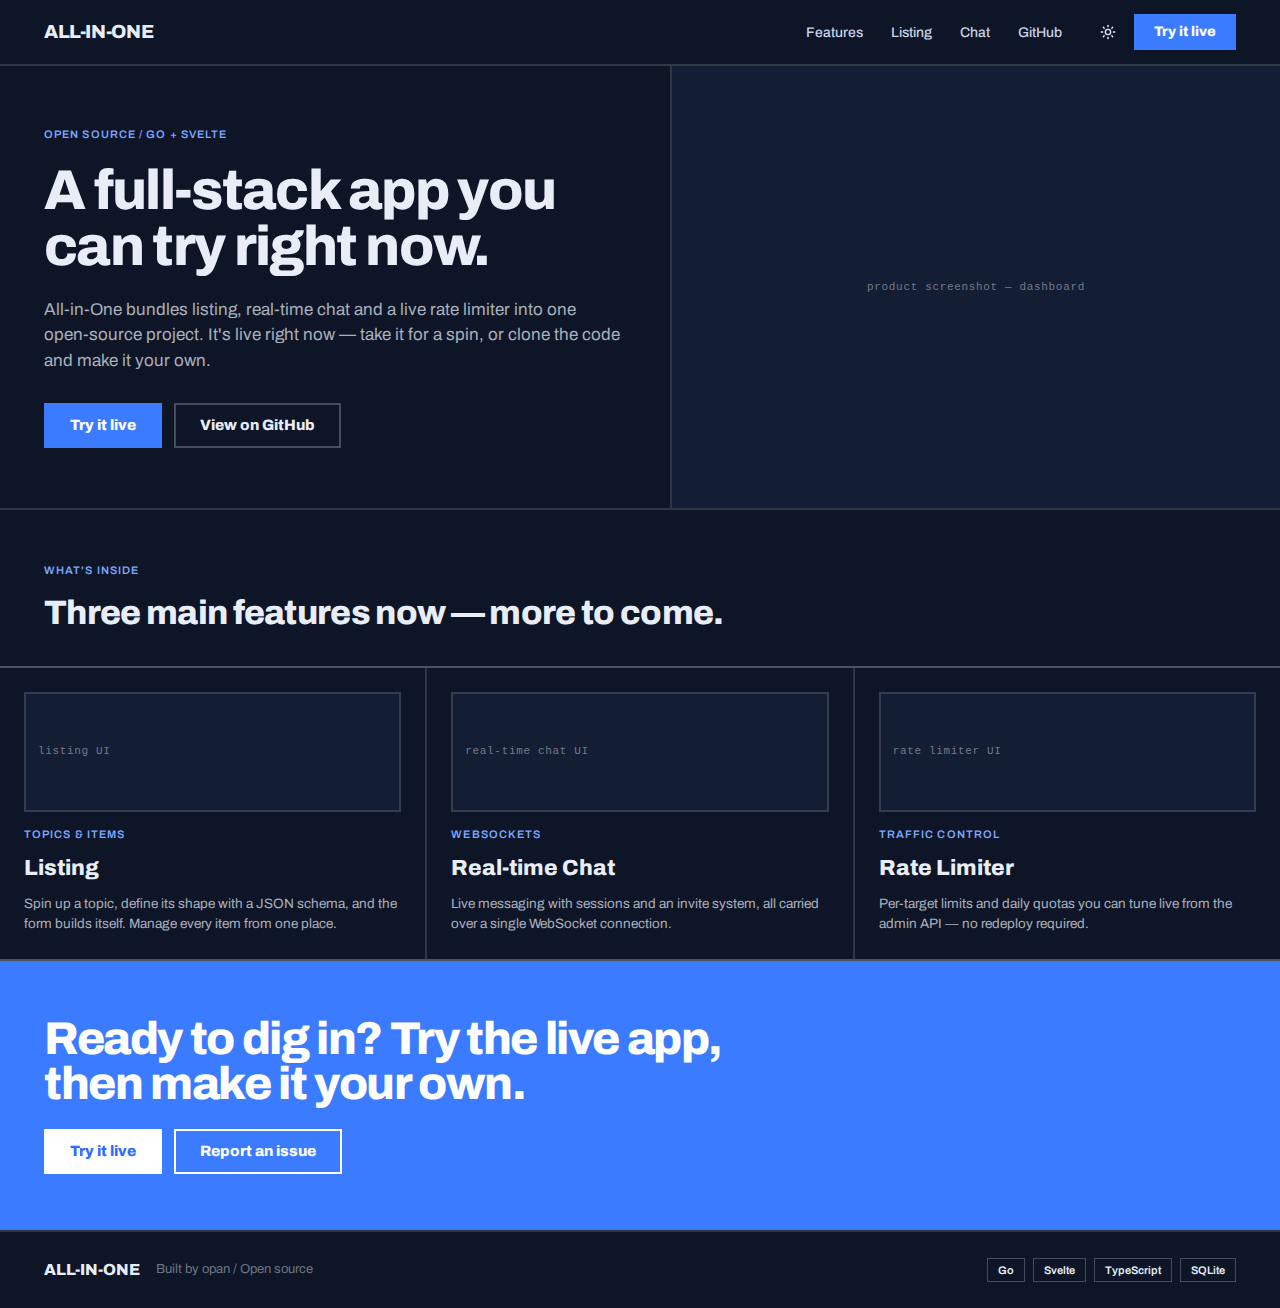
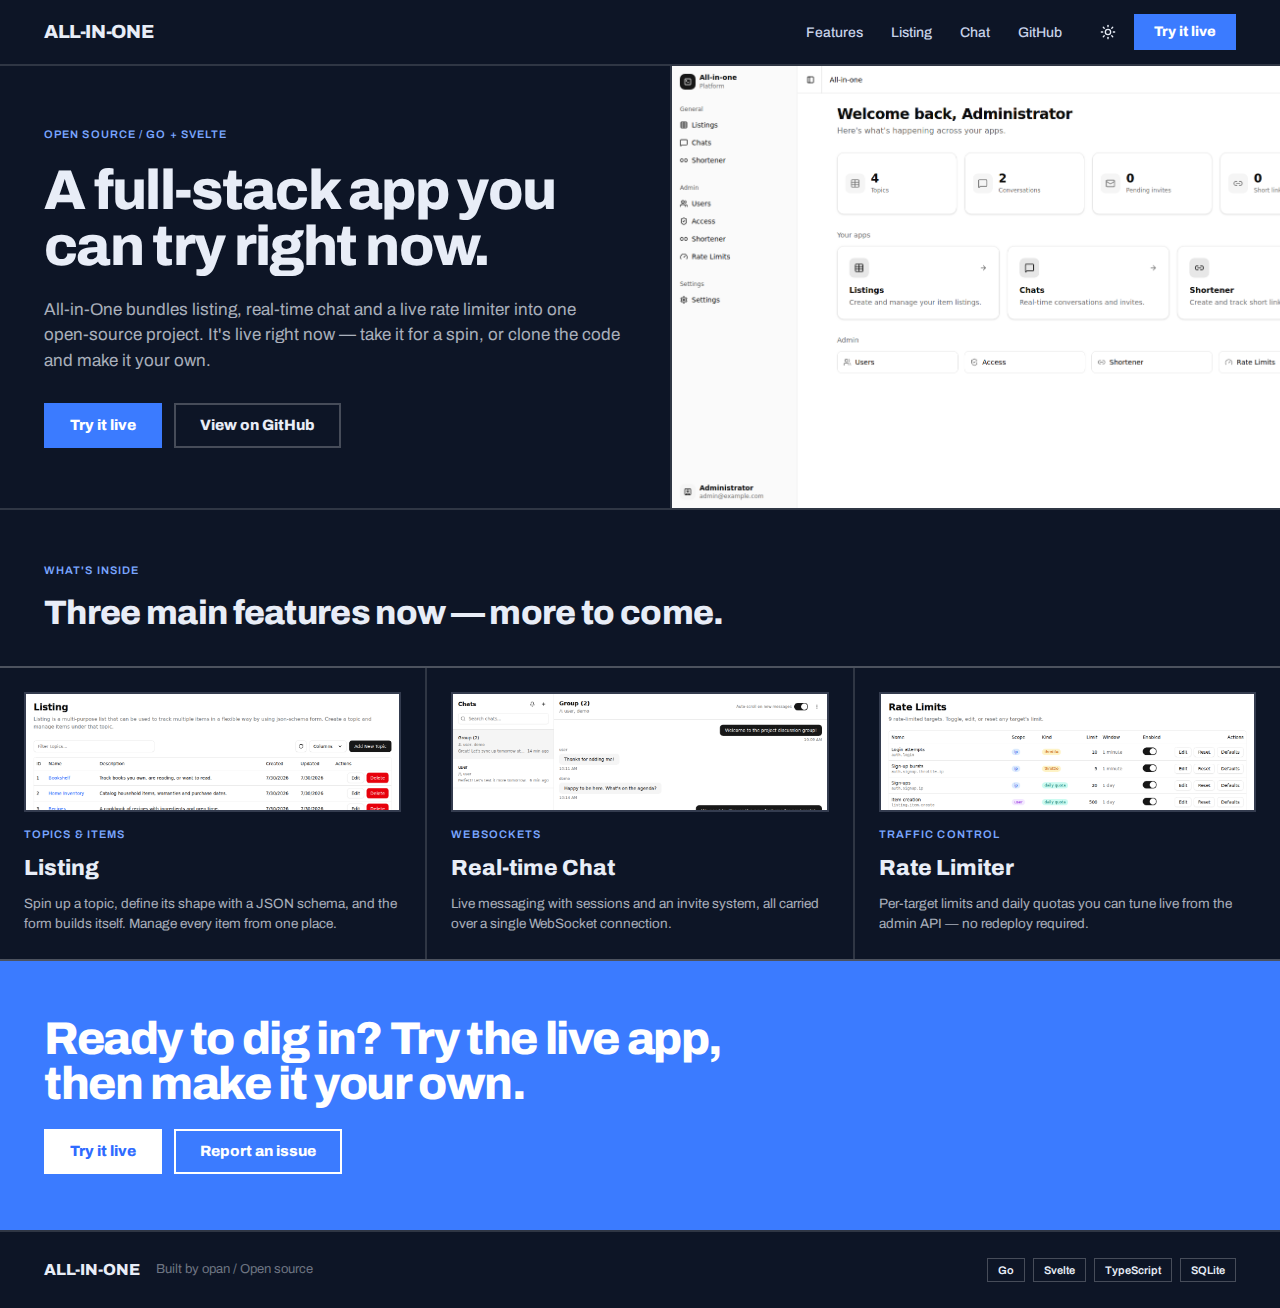
feat: use real product screenshots on landing page
Capture live screenshots of each feature and store them as static
assets under web/static/landing/, then wire them into the landing
page in place of the placeholder boxes:

- Hero: /home dashboard
- Listing card: topics table
- Chat card: real-time conversation
- Rate Limiter card: admin rate-limit config

Images use object-fit: cover so they crop cleanly in the hero panel
and the 120px feature thumbnails. Refresh the review screenshots in
artifacts/ to reflect the wired-in images.

diff --git a/web/src/routes/+page.svelte b/web/src/routes/+page.svelte
@@ -9,17 +9,23 @@
 		{
 			kicker: 'Topics & items',
 			title: 'Listing',
-			body: 'Spin up a topic, define its shape with a JSON schema, and the form builds itself. Manage every item from one place.'
+			body: 'Spin up a topic, define its shape with a JSON schema, and the form builds itself. Manage every item from one place.',
+			image: '/landing/listing.png',
+			alt: 'Listing topics table'
 		},
 		{
 			kicker: 'WebSockets',
 			title: 'Real-time Chat',
-			body: 'Live messaging with sessions and an invite system, all carried over a single WebSocket connection.'
+			body: 'Live messaging with sessions and an invite system, all carried over a single WebSocket connection.',
+			image: '/landing/chat.png',
+			alt: 'Real-time chat conversations'
 		},
 		{
 			kicker: 'Traffic control',
 			title: 'Rate Limiter',
-			body: 'Per-target limits and daily quotas you can tune live from the admin API — no redeploy required.'
+			body: 'Per-target limits and daily quotas you can tune live from the admin API — no redeploy required.',
+			image: '/landing/ratelimit.png',
+			alt: 'Rate limiter admin configuration'
 		}
 	];
 </script>
@@ -71,7 +77,7 @@
 			</div>
 		</div>
 		<div class="hero-panel">
-			<span class="panel-label">product screenshot — dashboard</span>
+			<img src="/landing/dashboard.png" alt="All-in-One dashboard" loading="eager" />
 		</div>
 	</section>
 
@@ -84,7 +90,7 @@
 		{#each features as feature (feature.title)}
 			<article class="feature-card">
 				<div class="feature-thumb">
-					<span class="panel-label">{feature.title.toLowerCase()} UI</span>
+					<img src={feature.image} alt={feature.alt} loading="lazy" />
 				</div>
 				<div class="kicker">{feature.kicker}</div>
 				<h3>{feature.title}</h3>
@@ -170,13 +176,6 @@
 		letter-spacing: 0.1em;
 		text-transform: uppercase;
 		color: var(--kicker);
-	}
-
-	.panel-label {
-		font-family: ui-monospace, Menlo, monospace;
-		font-size: 11px;
-		letter-spacing: 0.06em;
-		color: var(--faint);
 	}
 
 	.btn {
@@ -305,6 +304,14 @@
 		align-items: center;
 		justify-content: center;
 		min-height: 340px;
+		overflow: hidden;
+	}
+	.hero-panel img {
+		width: 100%;
+		height: 100%;
+		object-fit: cover;
+		object-position: top left;
+		display: block;
 	}
 
 	/* Features */
@@ -339,9 +346,14 @@
 		height: 120px;
 		background: var(--panel);
 		border: 2px solid var(--line);
-		display: flex;
-		align-items: center;
-		padding-left: 12px;
+		overflow: hidden;
+	}
+	.feature-thumb img {
+		width: 100%;
+		height: 100%;
+		object-fit: cover;
+		object-position: top left;
+		display: block;
 	}
 	.feature-card h3 {
 		font-weight: 800;
